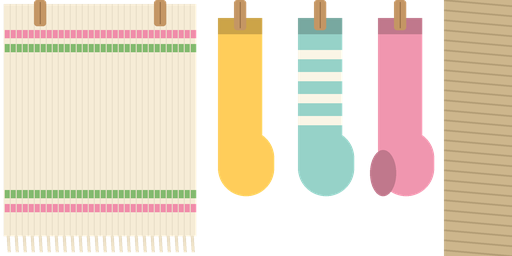
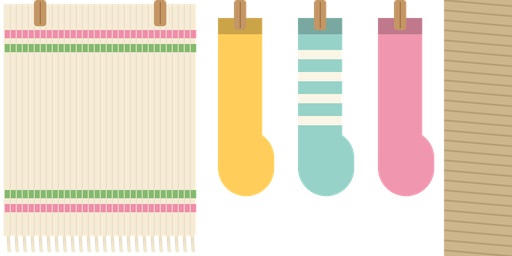
Canopy camp laundry: no heel patch on the pink sock
Claude-Session: https://claude.ai/code/session_01YCmFwpKBLX19d29tQAV5jq

Changed region(s): [[0.7188, 0.5938, 0.7812, 0.7812]]

diff --git a/props/lived/build_laundry.py b/props/lived/build_laundry.py
@@ -72,8 +72,6 @@ def atlas(path):
         if i == 1:
             for y in range(50, 130, 22):
                 d.rectangle(S(cx - 22, y, cx + 22, y + 9), fill=(250, 245, 230, 255))            # stripes
-        if i == 2:
-            d.ellipse(S(cx - 30, 150, cx - 4, 196), fill=dark)                                  # darned heel patch
         d.rounded_rectangle(S(cx - 6, 0, cx + 6, 30), radius=3 * k, fill=(196, 150, 100, 255))   # wooden peg
         d.line(S(cx, 2, cx, 28), fill=(150, 110, 70, 255), width=k)
 
